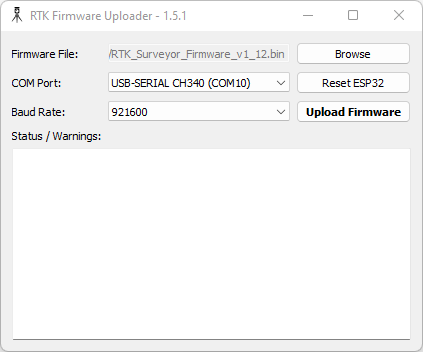
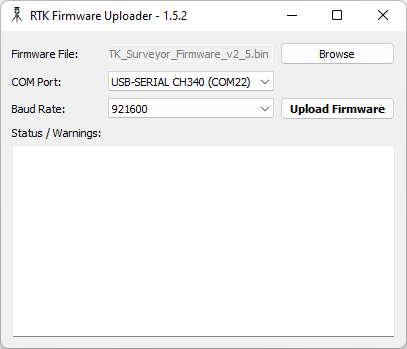
before default_reset , after no_reset

diff --git a/RTK_Firmware_Uploader/RTK_Firmware_Uploader.py b/RTK_Firmware_Uploader/RTK_Firmware_Uploader.py
@@ -468,6 +468,7 @@ class MainWidget(QWidget):
         command.extend(["--chip","esp32"])
         command.extend(["--port",self.port])
         command.extend(["--baud",self.baudRate])
+        command.extend(["--before","default_reset","--after","no_reset"])
         command.extend(["flash_id"])
 
         # Create a job and add it to the job queue. The worker thread will pick this up and
@@ -489,6 +490,7 @@ class MainWidget(QWidget):
                 portAvailable = True
         if (portAvailable == False):
             self.writeMessage("Port No Longer Available")
+            self.disable_interface(False)
             return
 
         fileExists = False
@@ -500,6 +502,7 @@ class MainWidget(QWidget):
         finally:
             if (fileExists == False):
                 self.writeMessage("File Not Found")
+                self.disable_interface(False)
                 return
             f.close()
 
@@ -540,8 +543,10 @@ class MainWidget(QWidget):
         if firmwareSizeCorrect == False:
             reply = QMessageBox.warning(self, "Firmware size mismatch", "Do you want to continue?", QMessageBox.Yes | QMessageBox.No, QMessageBox.No)
             if reply == QMessageBox.No:
+                self.disable_interface(False)
                 return
 
+        sleep(1.0);
         self.writeMessage("Uploading firmware\n")
 
         command = []
@@ -549,7 +554,8 @@ class MainWidget(QWidget):
         command.extend(["--chip","esp32"])
         command.extend(["--port",self.port])
         command.extend(["--baud",self.baudRate])
-        command.extend(["--before","default_reset","--after","hard_reset","write_flash","-z","--flash_mode","dio","--flash_freq","80m","--flash_size","detect"])
+        #command.extend(["--before","default_reset","--after","hard_reset","write_flash","-z","--flash_mode","dio","--flash_freq","80m","--flash_size","detect"])
+        command.extend(["--before","default_reset","--after","no_reset","write_flash","-z","--flash_mode","dio","--flash_freq","80m","--flash_size","detect"])
         command.extend(["0x1000",resource_path("RTK_Surveyor.ino.bootloader.bin")])
         command.extend(["0x8000",thePartitionFileName])
         command.extend(["0xe000",resource_path("boot_app0.bin")])
@@ -566,7 +572,7 @@ class MainWidget(QWidget):
         # Send the job to the worker to process
         self._worker.add_job(theJob)
 
-        self.disable_interface(True)
+        self.disable_interface(True) # Redundant... Interface is still disabled from flash detect
 
     def do_restart(self) -> None:
         """Tell the ESP32 to restart"""
@@ -576,6 +582,7 @@ class MainWidget(QWidget):
                 portAvailable = True
         if (portAvailable == False):
             self.writeMessage("Port No Longer Available")
+            self.disable_interface(False)
             return
 
         try:
@@ -583,6 +590,7 @@ class MainWidget(QWidget):
         except:
             pass
 
+        sleep(1.0);
         self.writeMessage("Restarting ESP32\n")
 
         # ---- The esptool method -----
@@ -590,7 +598,7 @@ class MainWidget(QWidget):
         command = []
         command.extend(["--chip","esp32"])
         command.extend(["--port",self.port])
-        command.extend(["--before","no_reset","run"])
+        command.extend(["--before","default_reset","run"])
 
         # Create a job and add it to the job queue. The worker thread will pick this up and
         # process the job. Can set job values using dictionary syntax, or attribute assignments
@@ -601,7 +609,7 @@ class MainWidget(QWidget):
         # Send the job to the worker to process
         self._worker.add_job(theJob)
 
-        self.disable_interface(True)
+        self.disable_interface(True) # Redundant... Interface is still disabled from flash detect
 
 def startUploaderGUI():
     """Start the GUI"""

diff --git a/RTK_Firmware_Uploader/au_act_esptool.py b/RTK_Firmware_Uploader/au_act_esptool.py
@@ -48,7 +48,7 @@ class AUxEsptoolUploadFirmware(AxAction):
 class AUxEsptoolResetESP32(AxAction):
 
     ACTION_ID = "esptool-reset-esp32"
-    NAME = "ESP32 Reset"
+    NAME = "ESP32 Restart"
 
     def __init__(self) -> None:
         super().__init__(self.ACTION_ID, self.NAME)
